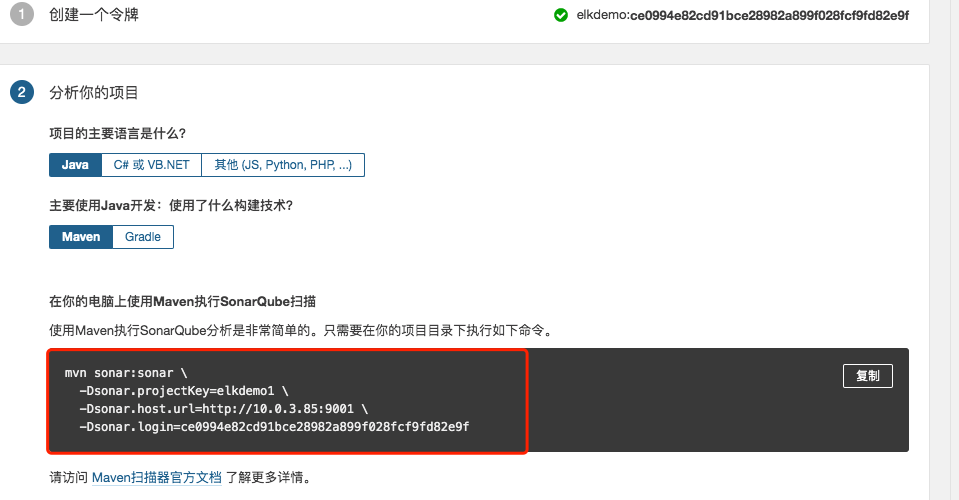
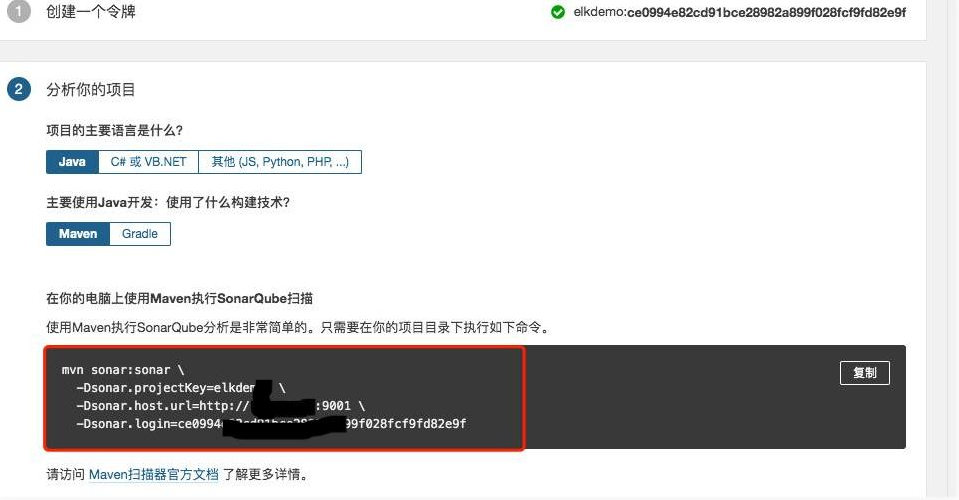
修改一些文档细节

diff --git a/docs/docker/docker-compose搭建SonarQube.md b/docs/docker/docker-compose搭建SonarQube.md
@@ -152,9 +152,9 @@ https://docs.sonarqube.org/latest/analysis/scan/sonarscanner-for-maven/
 
 ```sh
 mvn sonar:sonar \
-  -Dsonar.projectKey=elkdemo1 \
-  -Dsonar.host.url=http://10.0.3.85:9001 \
-  -Dsonar.login=ce0994e82cd91bce28982a899f028fcf9fd82e9f
+  -Dsonar.projectKey=elkdemo \
+  -Dsonar.host.url=http://localhost:9001 \
+  -Dsonar.login=ce0994e82cd91bce22342a899f028fcf9fd82e9f
 ```
 
 可能会有如下的出错信息
@@ -179,10 +179,11 @@ SCM provider autodetection failed. Please use "sonar.scm.provider" to define SCM
 mvn clean org.jacoco:jacoco-maven-plugin:prepare-agent install \
 sonar:sonar \
   -Dsonar.projectKey=elkdemo \
-  -Dsonar.host.url=http://10.0.3.85:9001 \
-  -Dsonar.login=827179f3f1547e2f5bac5282198fea99a9e5ab74 \
+  -Dsonar.host.url=http://localhost:9001 \
+  -Dsonar.login=827179f3f1547e2f34ac5282198fea99a9e5ab74 \
   # 如果单元测试失败 可以继续执行
   -Dmaven.test.failure.ignore=true \
+  # 也可以web ui中设置 scm关闭 这样就会少一个警告 不过关系不大
   -Dsonar.scm.disabled=true
 ```
 
@@ -298,7 +299,7 @@ https://blog.csdn.net/wxmiy/article/details/89740578
  *
  * 接口控制器
  * @author minalz
- * @date 2021/06/328
+ * @date 2021/06/28
  */
 ```
 

diff --git a/docs/soft/jenkins安装.md b/docs/soft/jenkins安装.md
@@ -1,6 +1,6 @@
 # jenkins安装
 
-非docker安装的方式,因为docker安装,因为我有下载好的包,直接这么操作,真正操作肯定还是docker比较方便的,但是需要做好持久化
+非docker安装的方式,因为我有下载好的包,直接这么操作,真正操作肯定还是docker比较方便的,但是需要做好持久化
 
 ## 1.下载jenkins.war
 
@@ -35,7 +35,7 @@ cat /root/.jenkins/secrets/initialAdminPassword
 
 ### 3.2 安装推荐的插件
 
-![image-20210108230432312](https://minalz.cn/images/image-20210108230432312.png)
+![image-20210108230432312](../images/image-20210108230432312.png)
 
 ### 3.3 如果插件下载不成功,修改插件的更新地址试试
 
